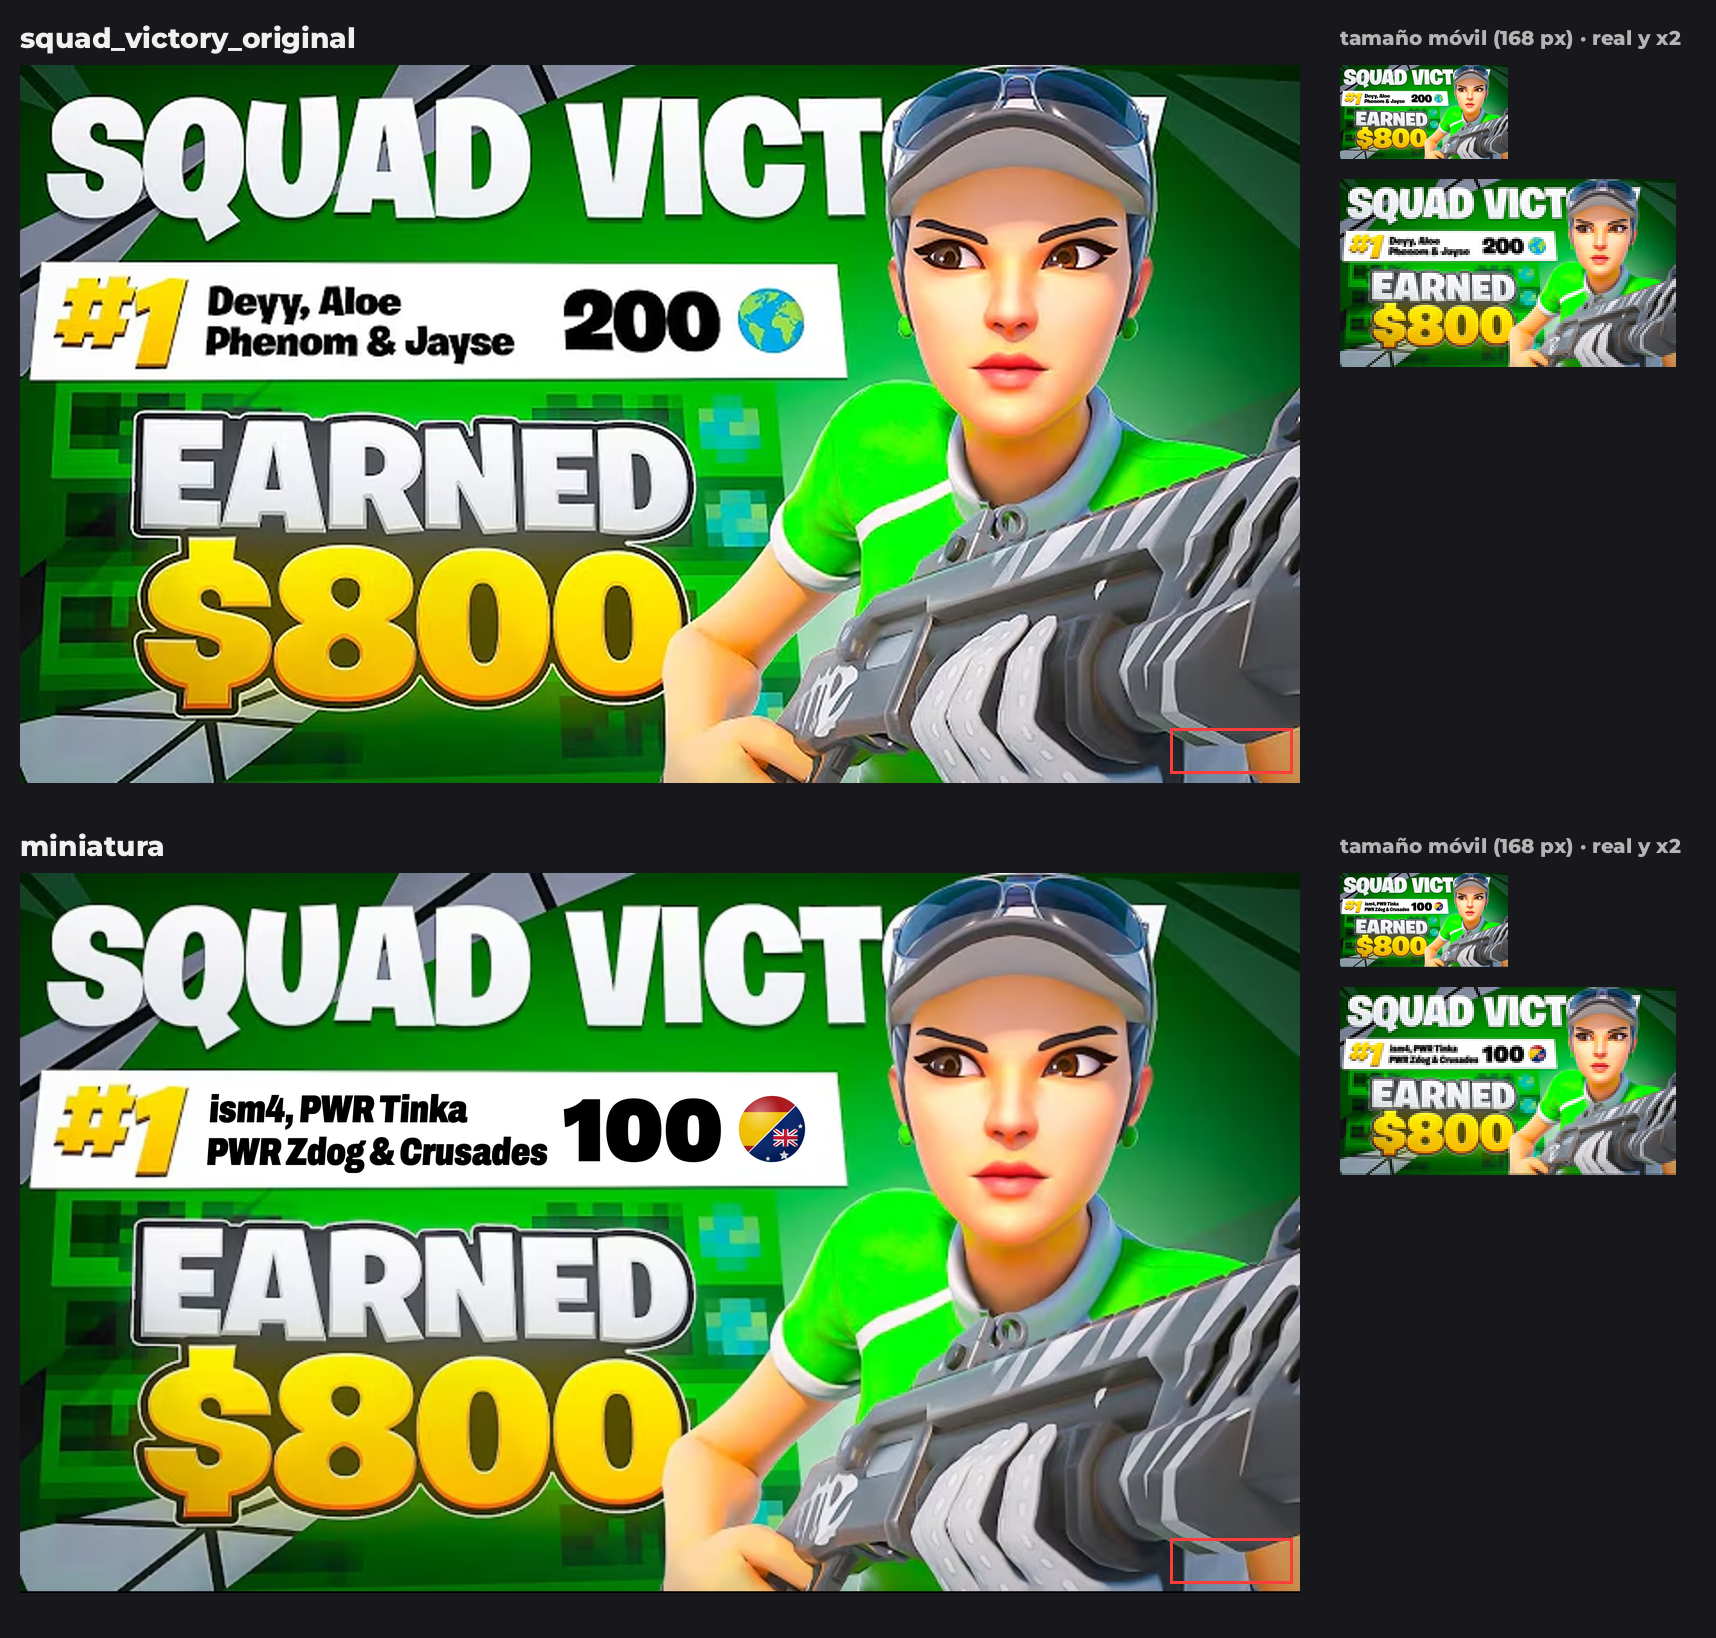
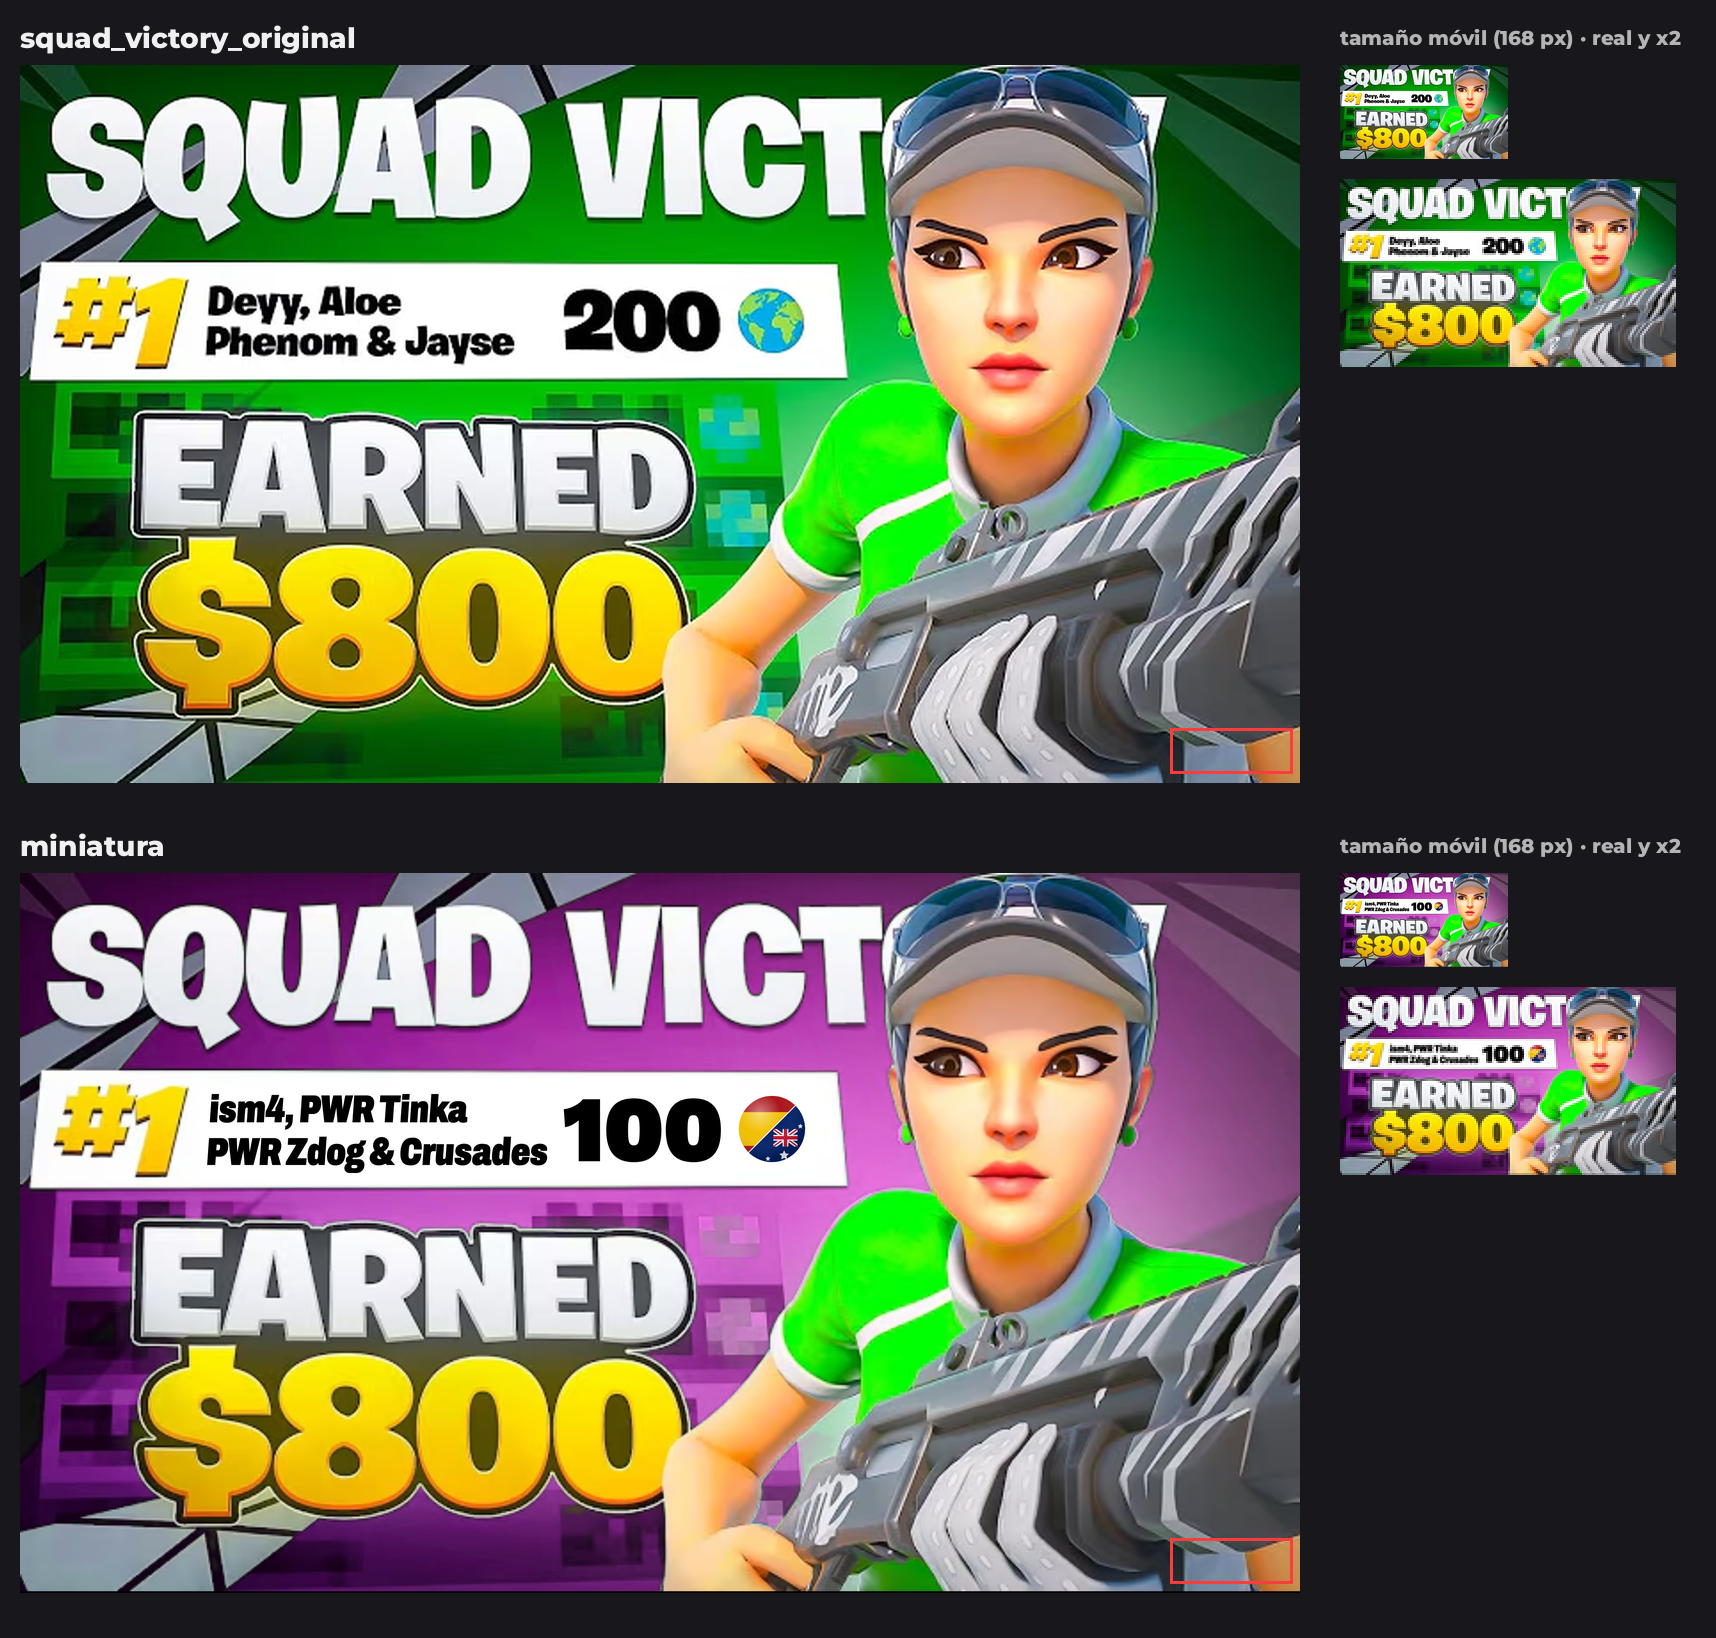
Squad Victory: fondo morado como la clasificación del torneo
Claude-Session: https://claude.ai/code/session_01Q54DXVH7GopsR3mpjPBNRA

diff --git a/miniaturero/salida/2026-11-10_squad-victory/proyecto/miniatura.html b/miniaturero/salida/2026-11-10_squad-victory/proyecto/miniatura.html
@@ -10,7 +10,7 @@
   @font-face { font-family: "WorkSans"; src: url("fonts/WorkSans-Variable.ttf"); font-weight: 100 900; }
   html, body { margin: 0; width: 1280px; height: 720px; overflow: hidden; background: #000; }
   .lienzo { position: absolute; left: 0; top: 0; width: 720px; height: 404px; transform: scale(1.77778); transform-origin: 0 0;
-    background: url("img/base_sin_textos.png") 0 0 / 720px 404px no-repeat; }
+    background: url("img/base_fondo_morado.png") 0 0 / 720px 404px no-repeat; }
 
   /* ====== textos: nombres en Archivo 900 inclinada 4° (como el original), número en Work Sans 900 recto ====== */
   .nombres { position: absolute; left: var(--n-left, 104px); top: var(--n-top, 121.6px); font-family: "Archivo";

diff --git a/miniaturero/salida/2026-11-10_squad-victory/proyecto/recolorear_fondo.py b/miniaturero/salida/2026-11-10_squad-victory/proyecto/recolorear_fondo.py
@@ -1,0 +1,46 @@
+"""Cambia el verde del fondo por el morado de la clasificación (entrada/clasificacion_squads.webp).
+Solo toca píxeles verdes que NO son del personaje. Conserva luces, sombras y texturas (cuadros pixelados)."""
+import cv2
+import numpy as np
+from PIL import Image
+
+D = 'salida/2026-11-10_squad-victory/proyecto/img/'
+base = np.array(Image.open(D + 'base_sin_textos.png').convert('RGB'))
+h, w = base.shape[:2]
+
+# máscara del personaje (recorte con BiRefNet, colocado en su caja de la imagen)
+pers = np.zeros((h, w), np.float32)
+p = np.array(Image.open(D + '_personaje.png'))[..., 3].astype(np.float32) / 255
+pers[0:p.shape[0], 359:359 + p.shape[1]] = p
+pers = cv2.erode((pers > 0.5).astype(np.uint8), np.ones((3, 3), np.uint8)).astype(np.float32)   # sin margen: el filo verde también cambia
+pers = cv2.GaussianBlur(pers, (0, 0), 0.8)
+
+# qué es "verde del fondo"
+hsv = cv2.cvtColor(base, cv2.COLOR_RGB2HSV).astype(np.float32)
+H, S = hsv[..., 0] * 2, hsv[..., 1] / 255           # H en grados
+verde = np.clip((S - 0.18) / 0.15, 0, 1) * np.clip((H - 72) / 14, 0, 1) * np.clip((205 - H) / 14, 0, 1)   # verdes y turquesas (no amarillos)
+verde = cv2.GaussianBlur(verde, (0, 0), 0.8) * (1 - pers)
+
+# degradado objetivo con los morados de la captura
+xs = np.linspace(0, 1, w)[None, :, None]
+ys = np.linspace(0, 1, h)[:, None, None]
+izq, centro, der = np.array([111, 33, 112]), np.array([128, 44, 122]), np.array([168, 92, 158])
+grad = np.where(xs < 0.5, izq + (centro - izq) * (xs / 0.5), centro + (der - centro) * ((xs - 0.5) / 0.5))
+grad = grad * (1 - 0.35 * ys ** 2) + np.array([40, 30, 90]) * 0.35 * ys ** 2 * (1 - xs)   # abajo-izq más oscuro/azulado
+grad = np.clip(grad, 0, 255).astype(np.uint8)
+
+lab_b = cv2.cvtColor(base, cv2.COLOR_RGB2LAB).astype(np.float32)
+lab_g = cv2.cvtColor(np.broadcast_to(grad, (h, w, 3)).copy(), cv2.COLOR_RGB2LAB).astype(np.float32)
+sel = verde > 0.5
+mL = lab_b[..., 0][sel].mean()
+out = lab_g.copy()
+out[..., 0] = np.clip(lab_g[..., 0] + (lab_b[..., 0] - mL) * 0.9, 0, 255)     # conserva luces y sombras del original
+# conserva la intensidad del color original (zonas muy saturadas = morado más intenso)
+croma_b = np.sqrt((lab_b[..., 1] - 128) ** 2 + (lab_b[..., 2] - 128) ** 2)
+k = np.clip(croma_b / (np.median(croma_b[sel]) + 1e-6), 0.4, 1.4)
+out[..., 1] = 128 + (lab_g[..., 1] - 128) * k
+out[..., 2] = 128 + (lab_g[..., 2] - 128) * k
+rec = cv2.cvtColor(out.clip(0, 255).astype(np.uint8), cv2.COLOR_LAB2RGB).astype(np.float32)
+res = rec * verde[..., None] + base * (1 - verde[..., None])
+Image.fromarray(res.clip(0, 255).astype(np.uint8)).save(D + 'base_fondo_morado.png')
+print('verde cambiado: %.0f%% de la imagen' % (100 * (verde > 0.5).mean()))

diff --git a/miniaturero/salida/2026-11-10_squad-victory/notas.md b/miniaturero/salida/2026-11-10_squad-victory/notas.md
@@ -12,6 +12,7 @@
   - "PWR Zdog & Crusades" es más largo que "Phenom & Jayse": para que quepa antes del 100 sin deformar, los nombres van un poco más pequeños (unos 18 px frente a ~23).
   - "100": misma altura, línea base y centro que el "200".
 - **Fuente (versión 3, actual):** comparando de cerca con el original se vio que sus nombres van **inclinados unos 4°** (medido en la "D" y la "P": 3,4–4,6°) y el número va recto. Nombres: **Archivo 900** (ancho 75 %) inclinada exactamente 4°, con el "&" clásico de Inter Black. Número: **Work Sans 900** recto. Posiciones medidas al píxel: líneas a 124 y 147 px y número en la misma caja que el "200" (306–393 × 126–161). Para que quepa "PWR Zdog & Crusades" sin deformar, los nombres van un 9 % más bajos que los originales.
+- **Fondo (10/11):** el verde del fondo pasa al morado/magenta de la clasificación del torneo (`entrada/clasificacion_squads.webp`): morado (111,33,112) a la izquierda, más oscuro abajo y magenta claro hacia la derecha. Script `proyecto/recolorear_fondo.py`: solo cambia verdes y turquesas fuera del personaje (máscara con BiRefNet), conserva luces, sombras y los cuadros pixelados. No se toca nada más: textos, personaje (camiseta y pendientes siguen verdes), "#1", "$800" y bandera iguales. Revisión: 1) quedaba un filo verde alrededor del personaje y los cuadros turquesa → máscara sin margen y rango de tonos ampliado; 2) OK.
 - **Resolución:** el original es 720×404; se exporta a 3840×2160 pero la imagen de fondo sigue siendo la misma (algo blanda). Si tienes el archivo original a más resolución, queda más nítida.
 
 ## Archivos
